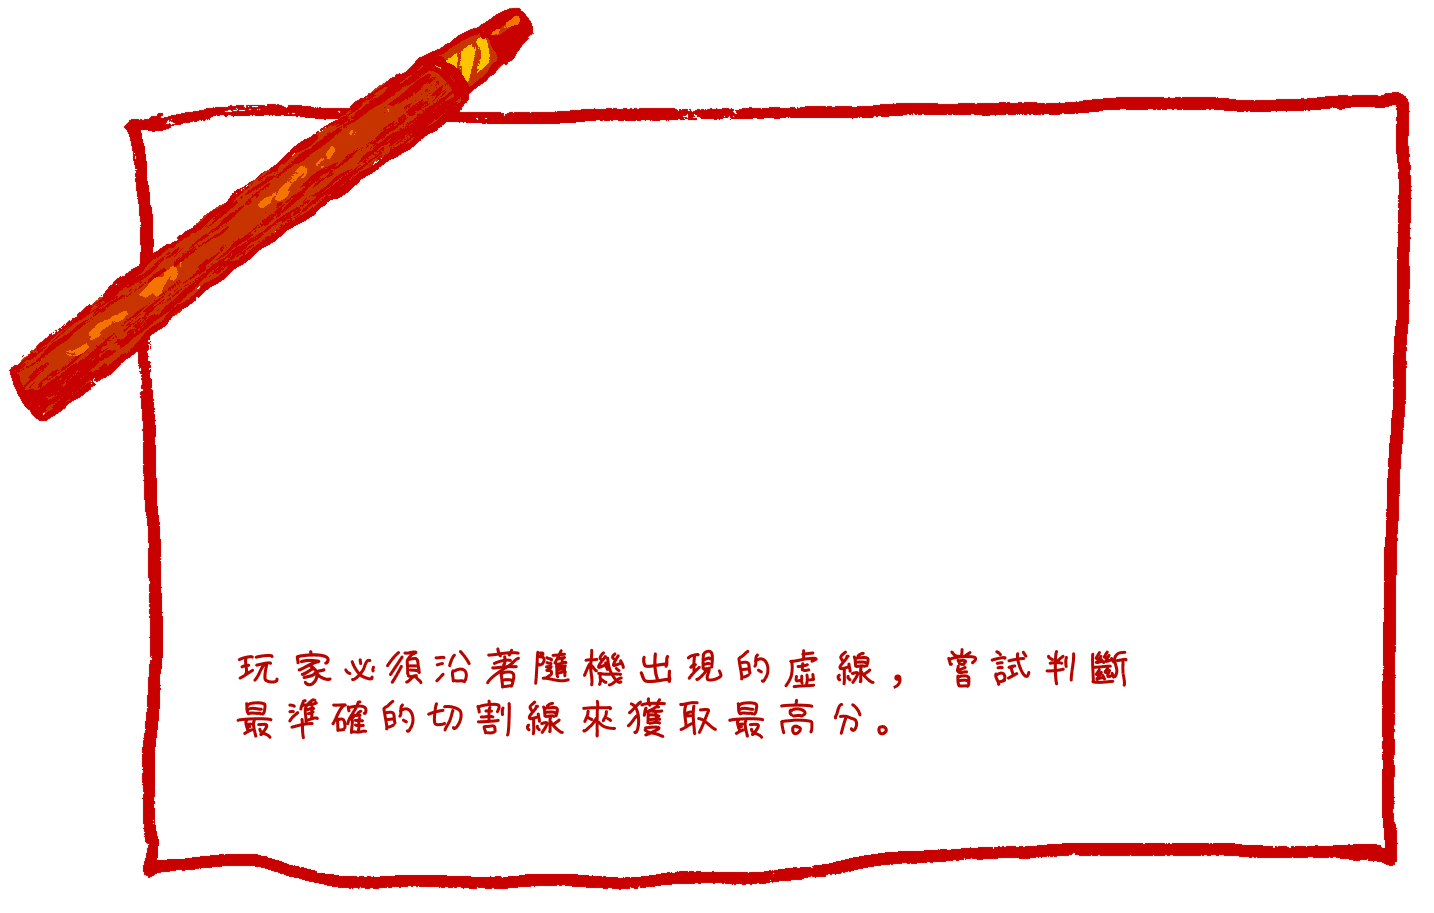
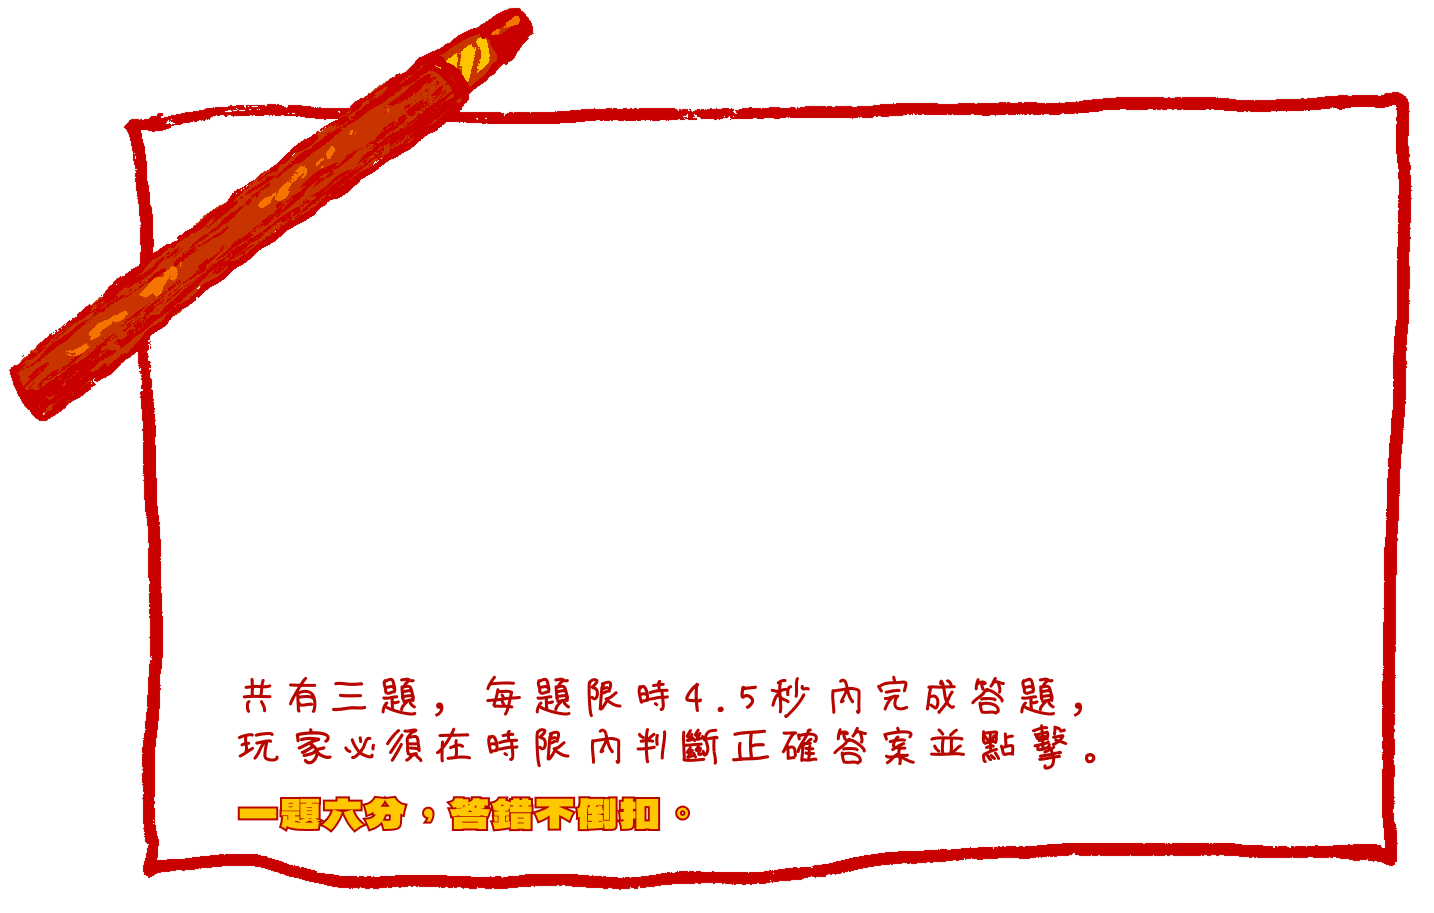
[task]上檢討戰場前小修

Changed region(s): [[0.1534, 0.7054, 0.7978, 0.8587], [0.1534, 0.8587, 0.4909, 0.92]]

diff --git a/js/camera_game.js b/js/camera_game.js
@@ -5,7 +5,7 @@ const MEDIA_PIPE_WASM_URL =
 const FACE_LANDMARKER_MODEL_URL =
   "https://storage.googleapis.com/mediapipe-models/face_landmarker/face_landmarker/float16/1/face_landmarker.task";
 const SCORE_STORAGE_PARAM = "score";
-const DIRECTION_NAMES = { up: "上", down: "下", left: "左", right: "右" };
+const DIRECTION_NAMES = { left: "左", right: "右" };
 const FISHEYE_PREVIEW_WIDTH = 320;
 const FISHEYE_PREVIEW_HEIGHT = 240;
 const FISHEYE_STRENGTH = 0.8;
@@ -27,6 +27,12 @@ const scoreParam = new URLSearchParams(window.location.search).get(
 const parsedScore = Number(scoreParam);
 let score =
   scoreParam !== null && Number.isFinite(parsedScore) ? parsedScore : 0;
+const correctParam = new URLSearchParams(window.location.search).get("correct");
+const parsedCorrectCount = Number(correctParam);
+let correctAnswers =
+  correctParam !== null && Number.isFinite(parsedCorrectCount)
+    ? parsedCorrectCount
+    : Number(localStorage.getItem("level1CorrectCount") ?? "0");
 let cameraStream;
 let faceLandmarker;
 let frameRequest;
@@ -272,16 +278,9 @@ function averagePose(samples) {
 
 function classifyDirection(pose) {
   const horizontalChange = pose.yaw - neutralPose.yaw;
-  const verticalChange = pose.pitch - neutralPose.pitch;
   const horizontalAmount = Math.abs(horizontalChange) / 0.1;
-  const verticalAmount = Math.abs(verticalChange) / 0.05;
 
-  if (horizontalAmount < 1 && verticalAmount < 1) {
-    return null;
-  }
-  if (verticalAmount >= horizontalAmount) {
-    return verticalChange < 0 ? "up" : "down";
-  }
+  if (horizontalAmount < 1) return null;
 
   // The preview is mirrored, so positive source-image movement is the user's left.
   return horizontalChange > 0 ? "left" : "right";
@@ -289,9 +288,7 @@ function classifyDirection(pose) {
 
 function setGuideDirection(direction) {
   directionGuide.classList.remove(
-    "direction_up",
     "direction_right",
-    "direction_down",
     "direction_left",
   );
   if (direction) directionGuide.classList.add(`direction_${direction}`);
@@ -370,8 +367,10 @@ async function resumeBackgroundAnimation() {
 function navigateToNextPage() {
   localStorage.setItem("level1Score", String(score));
   localStorage.setItem("totalScore", String(score));
+  localStorage.setItem("level1CorrectCount", String(correctAnswers));
   const destination = new URL(nextPage, window.location.href);
   destination.searchParams.set(SCORE_STORAGE_PARAM, String(score));
+  destination.searchParams.set("correct", String(correctAnswers));
   window.location.assign(destination.href);
 }
 
@@ -385,8 +384,10 @@ function completeWithDirection(direction) {
   const questionPoints = background.classList.contains("devel1_Q3_bg") ? 9 : 8;
   const earnedPoints = direction === correctDirection ? questionPoints : 0;
   score += earnedPoints;
+  if (earnedPoints > 0) correctAnswers += 1;
   localStorage.setItem("level1Score", String(score));
   localStorage.setItem("totalScore", String(score));
+  localStorage.setItem("level1CorrectCount", String(correctAnswers));
   console.log(
     `[Devel1 鏡頭] 本題得分 ${earnedPoints} 分；第一關累計 ${score} 分；遊戲總分 ${score} 分`,
   );
@@ -492,7 +493,7 @@ function processFrame() {
             if (transitionStarted) return;
             resumeBackgroundAnimation();
             turnDetectionEnabled = true;
-            statusMessage.textContent = "請向上、下、左或右轉頭。";
+            statusMessage.textContent = "請向左或右轉頭。";
             noMovementTimeout = window.setTimeout(
               completeWithoutMovement,
               animationDurationMs,
@@ -507,7 +508,7 @@ function processFrame() {
           candidateDirection = undefined;
           candidateFrames = 0;
           setGuideDirection(undefined);
-          statusMessage.textContent = "請向上、下、左或右轉頭。";
+          statusMessage.textContent = "請向左或右轉頭。";
         } else if (direction === candidateDirection) {
           candidateFrames += 1;
           if (candidateFrames >= 5) {

diff --git a/1_2_2_2.html b/1_2_2_2.html
@@ -13,7 +13,7 @@
     </div>
     <div
       class="devel1_Q2_bg camera_game_background opacity_full"
-      data-correct-direction="left"
+      data-correct-direction="right"
       data-next-page="1_2_3_2.html"
       data-stop-image="./img/devel1_Q2_stop_bg.png"
       data-animation-duration-ms="2160"
@@ -37,33 +37,20 @@
           aria-hidden="true"
         >
           <path
-            class="guide_region guide_up"
-            d="M100 100L42 42A82 82 0 0 1 158 42Z"
-          />
-          <path
             class="guide_region guide_right"
-            d="M100 100L158 42A82 82 0 0 1 158 158Z"
-          />
-          <path
-            class="guide_region guide_down"
-            d="M100 100L158 158A82 82 0 0 1 42 158Z"
+            d="M100 100L100 18A82 82 0 0 1 100 182Z"
           />
           <path
             class="guide_region guide_left"
-            d="M100 100L42 158A82 82 0 0 1 42 42Z"
+            d="M100 100L100 182A82 82 0 0 1 100 18Z"
           />
-          <path class="guide_crosshair" d="M42 42L158 158 M158 42L42 158" />
-          <path class="guide_quadrant guide_up" d="M42 42A82 82 0 0 1 158 42" />
+          <path class="guide_crosshair" d="M100 18V182" />
           <path
-            class="guide_quadrant guide_right"
+            class="guide_direction guide_right"
             d="M158 42A82 82 0 0 1 158 158"
           />
           <path
-            class="guide_quadrant guide_down"
-            d="M158 158A82 82 0 0 1 42 158"
-          />
-          <path
-            class="guide_quadrant guide_left"
+            class="guide_direction guide_left"
             d="M42 158A82 82 0 0 1 42 42"
           />
         </svg>

diff --git a/1_2_3_2.html b/1_2_3_2.html
@@ -13,7 +13,7 @@
     </div>
     <div
       class="devel1_Q3_bg camera_game_background opacity_full"
-      data-correct-direction="down"
+      data-correct-direction="right"
       data-next-page="1_2_4.html"
       data-stop-image="./img/devel1_Q3_stop_bg.png"
       data-animation-duration-ms="2160"
@@ -37,33 +37,20 @@
           aria-hidden="true"
         >
           <path
-            class="guide_region guide_up"
-            d="M100 100L42 42A82 82 0 0 1 158 42Z"
-          />
-          <path
             class="guide_region guide_right"
-            d="M100 100L158 42A82 82 0 0 1 158 158Z"
-          />
-          <path
-            class="guide_region guide_down"
-            d="M100 100L158 158A82 82 0 0 1 42 158Z"
+            d="M100 100L100 18A82 82 0 0 1 100 182Z"
           />
           <path
             class="guide_region guide_left"
-            d="M100 100L42 158A82 82 0 0 1 42 42Z"
+            d="M100 100L100 182A82 82 0 0 1 100 18Z"
           />
-          <path class="guide_crosshair" d="M42 42L158 158 M158 42L42 158" />
-          <path class="guide_quadrant guide_up" d="M42 42A82 82 0 0 1 158 42" />
+          <path class="guide_crosshair" d="M100 18V182" />
           <path
-            class="guide_quadrant guide_right"
+            class="guide_direction guide_right"
             d="M158 42A82 82 0 0 1 158 158"
           />
           <path
-            class="guide_quadrant guide_down"
-            d="M158 158A82 82 0 0 1 42 158"
-          />
-          <path
-            class="guide_quadrant guide_left"
+            class="guide_direction guide_left"
             d="M42 158A82 82 0 0 1 42 42"
           />
         </svg>

diff --git a/1_2_1_2.html b/1_2_1_2.html
@@ -14,7 +14,7 @@
     </div>
     <div
       class="devel1_Q1_bg camera_game_background opacity_full"
-      data-correct-direction="up"
+      data-correct-direction="left"
       data-next-page="1_2_2_2.html"
       data-stop-image="./img/devel1_Q1_stop_bg.png"
       data-animation-duration-ms="2160"
@@ -38,33 +38,20 @@
           aria-hidden="true"
         >
           <path
-            class="guide_region guide_up"
-            d="M100 100L42 42A82 82 0 0 1 158 42Z"
-          />
-          <path
             class="guide_region guide_right"
-            d="M100 100L158 42A82 82 0 0 1 158 158Z"
-          />
-          <path
-            class="guide_region guide_down"
-            d="M100 100L158 158A82 82 0 0 1 42 158Z"
+            d="M100 100L100 18A82 82 0 0 1 100 182Z"
           />
           <path
             class="guide_region guide_left"
-            d="M100 100L42 158A82 82 0 0 1 42 42Z"
+            d="M100 100L100 182A82 82 0 0 1 100 18Z"
           />
-          <path class="guide_crosshair" d="M42 42L158 158 M158 42L42 158" />
-          <path class="guide_quadrant guide_up" d="M42 42A82 82 0 0 1 158 42" />
+          <path class="guide_crosshair" d="M100 18V182" />
           <path
-            class="guide_quadrant guide_right"
+            class="guide_direction guide_right"
             d="M158 42A82 82 0 0 1 158 158"
           />
           <path
-            class="guide_quadrant guide_down"
-            d="M158 158A82 82 0 0 1 42 158"
-          />
-          <path
-            class="guide_quadrant guide_left"
+            class="guide_direction guide_left"
             d="M42 158A82 82 0 0 1 42 42"
           />
         </svg>

diff --git a/css/devel1_style.css b/css/devel1_style.css
@@ -479,7 +479,7 @@ html {
 }
 
 .guide_crosshair,
-.guide_quadrant {
+.guide_direction {
   fill: none;
   stroke: #fff;
   stroke-width: 5;
@@ -491,7 +491,7 @@ html {
 }
 
 .guide_crosshair,
-.guide_quadrant {
+.guide_direction {
   stroke-dasharray: 8 10;
 }
 
@@ -502,25 +502,21 @@ html {
 }
 
 .face_direction_guide.is_calibrated .guide_crosshair,
-.face_direction_guide.is_calibrated .guide_quadrant {
+.face_direction_guide.is_calibrated .guide_direction {
   stroke: #55f17a;
 }
 
-.face_direction_guide.is_calibrated .guide_quadrant {
+.face_direction_guide.is_calibrated .guide_direction {
   stroke-dasharray: 7 6;
 }
 
-.face_direction_guide.direction_up .guide_region.guide_up,
 .face_direction_guide.direction_right .guide_region.guide_right,
-.face_direction_guide.direction_down .guide_region.guide_down,
 .face_direction_guide.direction_left .guide_region.guide_left {
   fill: rgb(0 255 76 / 30%);
 }
 
-.face_direction_guide.direction_up .guide_quadrant.guide_up,
-.face_direction_guide.direction_right .guide_quadrant.guide_right,
-.face_direction_guide.direction_down .guide_quadrant.guide_down,
-.face_direction_guide.direction_left .guide_quadrant.guide_left {
+.face_direction_guide.direction_right .guide_direction.guide_right,
+.face_direction_guide.direction_left .guide_direction.guide_left {
   stroke: #00ff4c;
   stroke-width: 8;
   stroke-opacity: 0.85;

diff --git a/1_2_2_1.html b/1_2_2_1.html
@@ -17,10 +17,8 @@
     </div>
     <!-- 畫面正中間的按鈕區塊 -->
     <div class="dpad_container">
-      <button class="findtea_btn_Q2" id="btn_up"></button>
       <button class="findtea_btn_Q2" id="btn_left"></button>
       <button class="findtea_btn_Q2" id="btn_right"></button>
-      <button class="findtea_btn_Q2" id="btn_down"></button>
     </div>
     <!-- 依 0_2_1 的 Gtimer 顯示結構；使用 Ctimer 單次播放，位於最上層。 -->
     <div class="Gtimer" aria-label="三秒計時器">

diff --git a/1_2_3_1.html b/1_2_3_1.html
@@ -17,10 +17,8 @@
     </div>
     <!-- 畫面正中間的按鈕區塊 -->
     <div class="dpad_container">
-      <button class="findtea_btn_Q3" id="btn_up"></button>
       <button class="findtea_btn_Q3" id="btn_left"></button>
       <button class="findtea_btn_Q3" id="btn_right"></button>
-      <button class="findtea_btn_Q3" id="btn_down"></button>
     </div>
     <!-- 依 0_2_1 的 Gtimer 顯示結構；使用 Ctimer 單次播放，位於最上層。 -->
     <div class="Gtimer" aria-label="三秒計時器">

diff --git a/js/devel1_script.js b/js/devel1_script.js
@@ -137,19 +137,19 @@ if (cameraBtn) {
 const activeQuestion = [
   {
     selector: ".findtea_btn_Q1",
-    correctId: "btn_up",
+    correctId: "btn_left",
     points: 8,
     nextPage: "1_2_2_1.html",
   },
   {
     selector: ".findtea_btn_Q2",
-    correctId: "btn_left",
+    correctId: "btn_right",
     points: 8,
     nextPage: "1_2_3_1.html",
   },
   {
     selector: ".findtea_btn_Q3",
-    correctId: "btn_down",
+    correctId: "btn_right",
     points: 9,
     nextPage: "1_2_4.html",
   },

diff --git a/0_5_5.html b/0_5_5.html
@@ -48,7 +48,7 @@
           <!-- 遊戲示意圖：img/1_small_game_intro.png；位置與尺寸見 CSS。 -->
           <img
             class="game_intro_demo"
-            src="./img/5_small_game_intro.gif"
+            src="./img/4_1_small_game_intro.gif"
             alt="雞群從洞穴中出現的遊戲示意圖"
           />
 

diff --git a/css/level4_1_style.css b/css/level4_1_style.css
@@ -444,7 +444,7 @@ body.level4_legacy_page {
 /* 右下「我雞道了」按鈕圖檔與 214×110 尺寸可在此微調。 */
 .game_intro_confirm {
   position: absolute;
-  right: 88px;
+  right: 70px;
   bottom: 95px;
   width: 214px;
   height: 110px;
